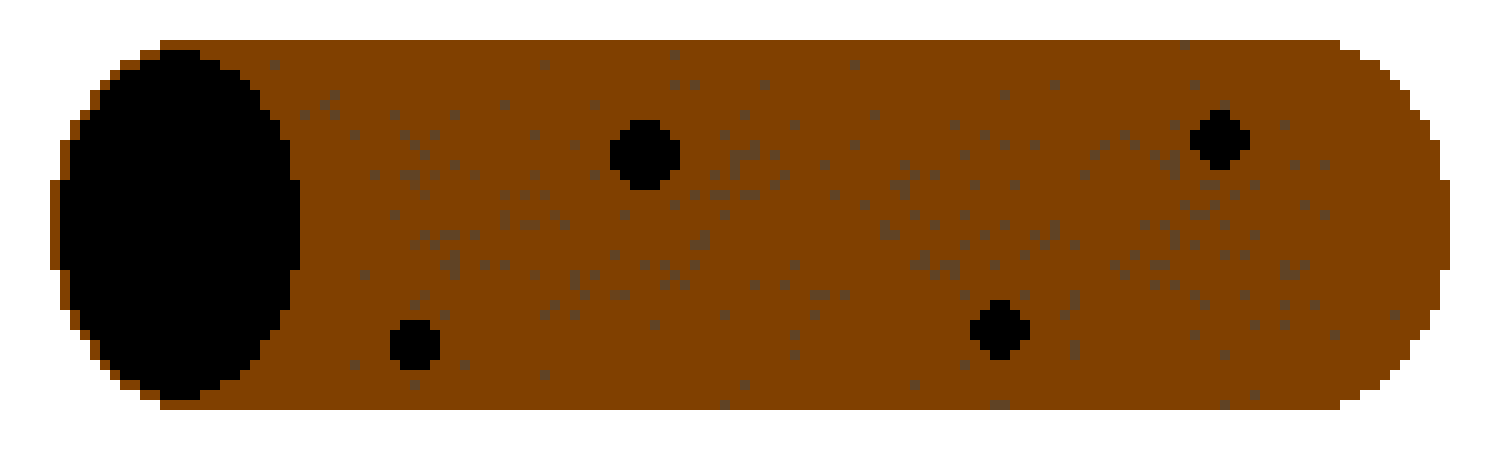
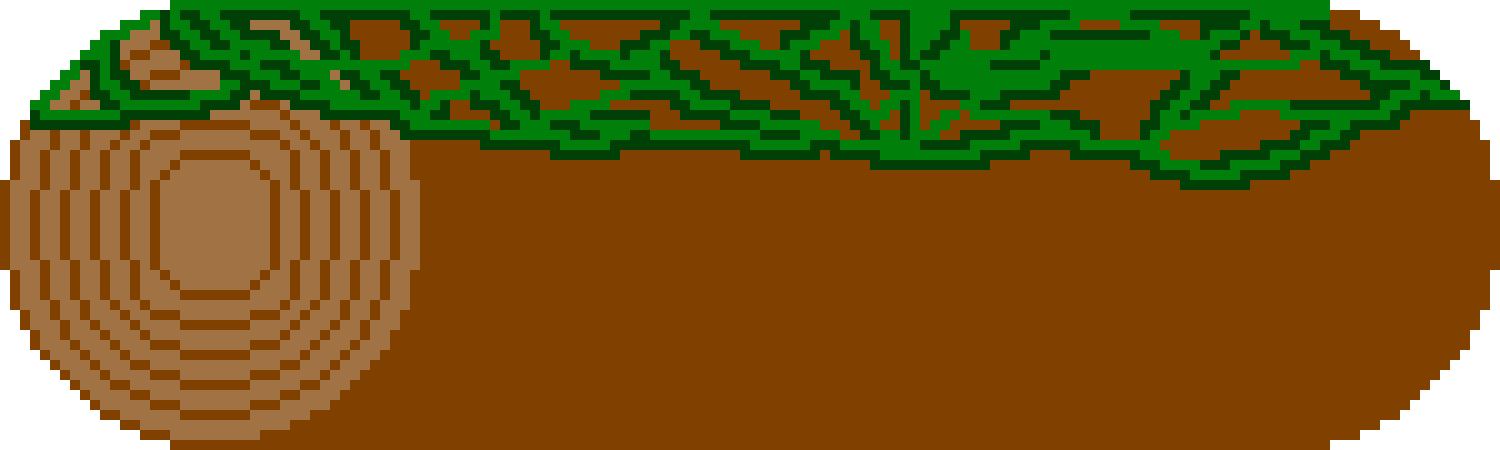
Movimiento F y P

diff --git a/scenes/Game.js b/scenes/Game.js
@@ -3,6 +3,7 @@
 export default class Game extends Phaser.Scene {
   constructor() {
     super("main");
+    this.backgroundVelocity = -2;
   }
 
   init() {
@@ -24,13 +25,7 @@ export default class Game extends Phaser.Scene {
     this.addObstaculos();
     this.addPersonaje();
     this.addTeclas();
-
-    this.time.addEvent({
-      delay: 5000,
-      callback: this.createObjetos,
-      callbackScope: this,
-      loop: true,
-    })
+    this.addEventos();
   }
 
   update() {
@@ -44,56 +39,84 @@ export default class Game extends Phaser.Scene {
   if (this.cursor.up.isDown && this.personaje.body.touching.down) {
     this.personaje.setVelocityY(-330)
   }
+
+  this.moveFondo();
+  this.movePiso();
   }
 
   addFondo() {
     this.centerX = this.game.config.width / 2;
     this.centerY = this.game.config.height / 2;
-    this.background = this.add.image(this.centerX, this.centerY, "muro");
+    this.background = this.add.tileSprite(this.centerX, this.centerY, this.game.config.width, this.game.config.height, "muro").setScale(0.1, 0.1);
     this.background.displayWidth = this.game.config.width;
     this.background.displayHeight = this.game.config.height;
   }
 
+  moveFondo() {
+    this.background.tilePositionX -= this.backgroundVelocity;
+  }
+
   addPiso() {
-    this.pisos = this.physics.add.staticGroup();
-    this.pisos.create(435, 545, "piso").setScale(0.35).refreshBody();
+    this.piso = this.add.tileSprite(750, 915, this.game.config.width, 325, "piso").setScale(1, 0.6);
+    this.physics.add.existing(this.piso, true);
+    //this.piso.body.setSize(1500, 199);
+  }
+
+  movePiso() {
+    this.piso.tilePositionX += 2; // Ajusta este valor para cambiar la velocidad del piso
   }
 
   addObstaculos() {
     this.objetos = this.physics.add.group();
-    this.physics.add.collider(this.objetos, this.pisos);
-    
   }
 
   createObjetos() {
     const tipos = ["tocon", "tronco"];
 
     const tipo = Phaser.Math.RND.pick(tipos);
-    let objeto = this.objetos.create(
-      855,
-      439,
-      tipo
-    ).setScale(0.25);
-    objeto.setVelocityX(-200);
-    
+  
+    let yPos = 749; // Coordenada 'y' por defecto
+
     if (tipo === "tronco") {
-      objeto.setScale(0.15);
+      yPos = 773; // Ajusta este valor para la coordenada 'y' del tronco
     }
 
-    this.physics.add.collider(this.personaje, this.objetos);
+    let objeto = this.objetos.create(
+      1570, // Coordenada 'x'
+      yPos, // Coordenada 'y'
+      tipo
+    ).setScale(0.35);
+  
+    objeto.setVelocityX(-200);
+
+    if (tipo === "tronco") {
+      objeto.setScale(0.20);
+    }
+
+   this.physics.add.collider(this.personaje, this.objetos);
     objeto.setImmovable(true);
     objeto.body.allowGravity = false;
   }
   
   addPersonaje() {
     this.personaje = this.physics.add.sprite(100, 100, "personaje");
-    this.personaje.setScale(0.1);
+    this.personaje.setScale(0.15);
     //this.personaje.body.setSize(1000,1000,0,100)
     this.personaje.setCollideWorldBounds(true);
-    this.physics.add.collider(this.personaje, this.pisos);
+    this.physics.add.collider(this.personaje, this.piso);
   }
 
   addTeclas() {
     this.cursor = this.input.keyboard.createCursorKeys();
+  }
+
+  addEventos() {
+    //obstaculos
+    this.time.addEvent({
+      delay: 5000,
+      callback: this.createObjetos,
+      callbackScope: this,
+      loop: true,
+    });
   }
 }

diff --git a/main.js b/main.js
@@ -2,8 +2,8 @@ import Game from "./scenes/Game.js";
 
 const config = {
   type: Phaser.AUTO,
-  width: 800,
-  height: 600,
+  width: 1500,
+  height: 1000,
   scale: {
     mode: Phaser.Scale.FIT,
     autoCenter: Phaser.Scale.CENTER_BOTH,
@@ -19,8 +19,8 @@ const config = {
   physics: {
     default: "arcade",
     arcade: {
-      gravity: { y: 200 },
-      debug: true,
+      gravity: { y: 200},
+      debug: false,
     },
   },
   scene: [Game],
